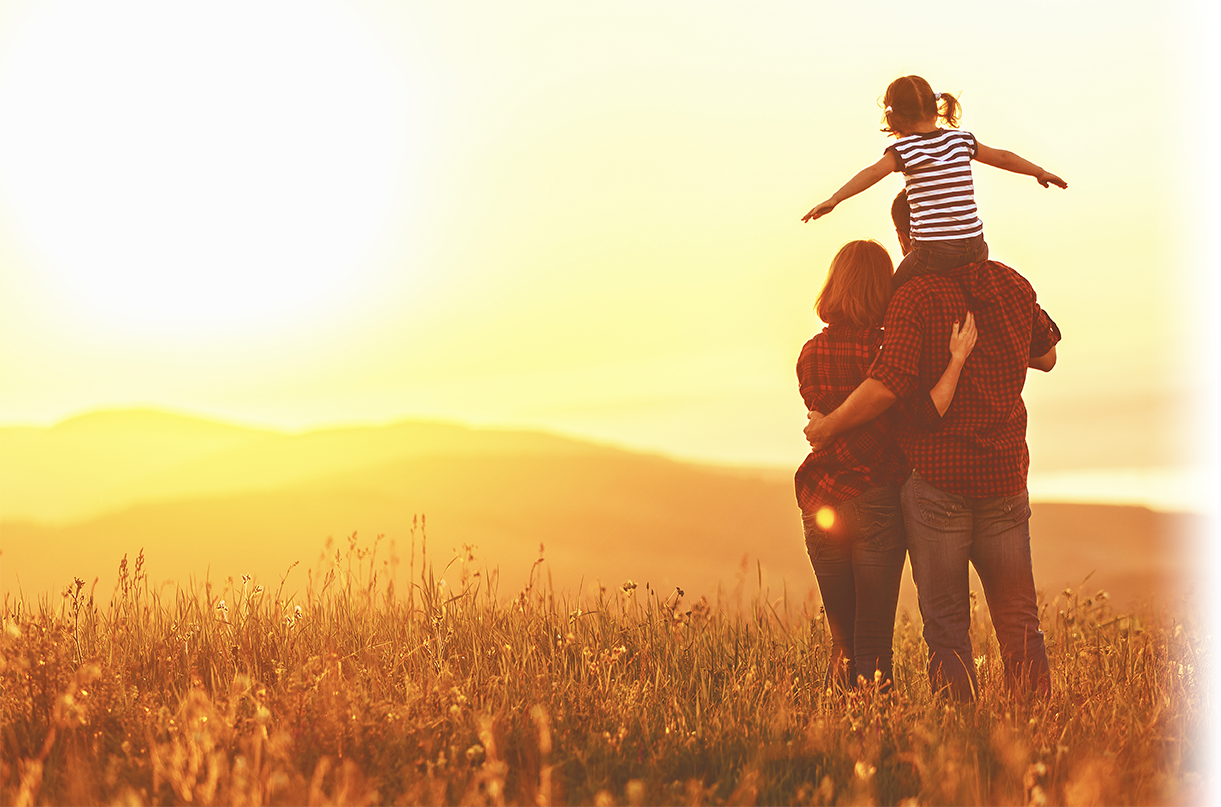
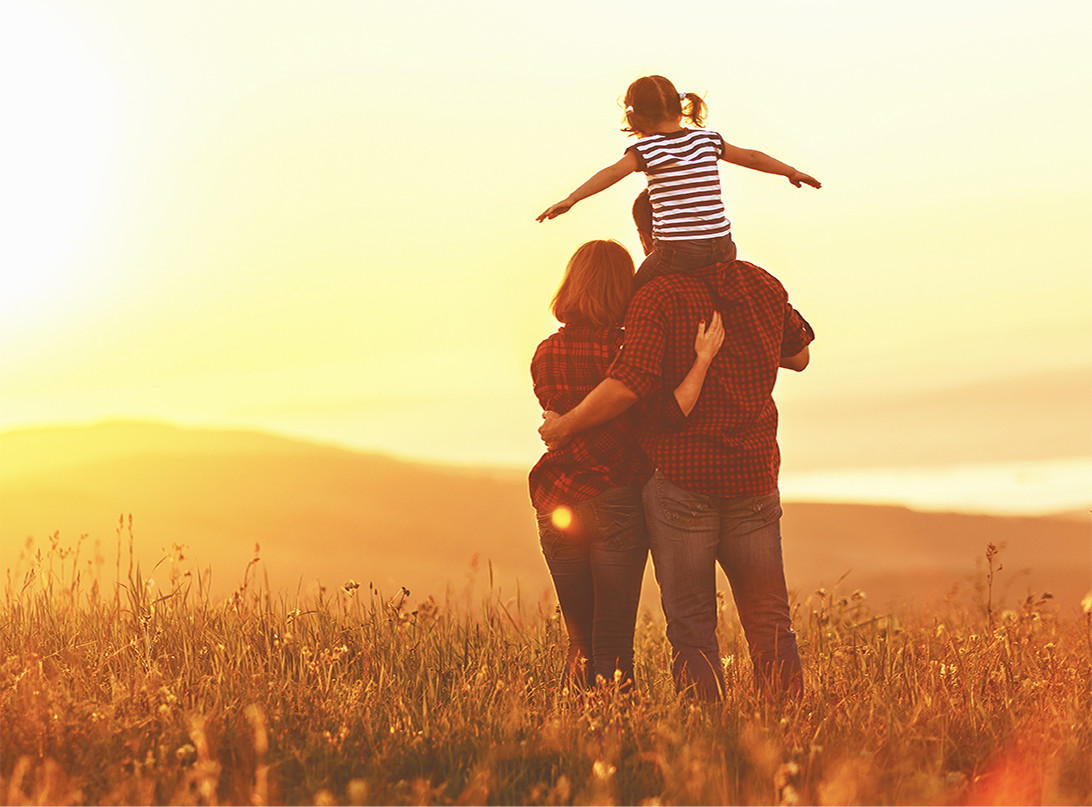
minor css improvements

diff --git a/index.html b/index.html
@@ -32,7 +32,7 @@
     <header>
       <nav>
         <img src='./assets/logo.png' alt='' height='60px'/>
-        <h2>Call us today! 1.800.555.5555</h2>
+        <h2 class='nav-call'><a href='tel:800-555-5555'>Call us today! 1.800.555.5555</a></h2>
       </nav>
     </header>
     <main>
@@ -56,7 +56,7 @@
           <input type="text" id="loan" name="loan" placeholder="LOAN AMOUNT $">
           <input type="submit" value="Get Started">
         </form>
-        <!-- <img src='./assets/trusted.png' alt='' height='10px'/> -->
+        <img src='./assets/trusted.png' alt='' height='60px'/>
       </div>
     </main>
     <footer>
@@ -66,16 +66,16 @@
           <h4>1st Franklin Financial Corporation</h4>
           <p>
             <h4>Corporate Headquaters</h4>
-            135 E. Tugalo Street<br />P.O. Box 880<br />Toccoa, GA 30577<br />(706)886-7571
+            135 E. Tugalo Street<br />P.O. Box 880<br />Toccoa, GA 30577<br /><a href='tel:706-886-7571' style="color: #878a8b">(706) 886-7571</a>
           </p>
           <p>
             <h4>Toll Free Numbers</h4>
-            Investment Center<br />(706)886-7571 or (800)282-0709<br />Quality Assurance<br />(800)700-7943
+            Investment Center<br /><a href='tel:706-886-7571' style="color: #878a8b">(706) 886-7571</a> or <a href='tel:800-282-0709' style="color: #878a8b">(800) 282-0709</a><br />Quality Assurance<br /><a href='tel:800-700-7943' style="color: #878a8b">(800) 700-7943</a>
           </p>
           <p>
             Copyright 2012-2017 1st Franklin Financial<br />All Rights Reserved.
           </p>
-          <p>
+          <p class='col-1-links'>
             <a href='#'>Privacy Policy</a><br />
             <a href='#'>Online Privacy Policy</a><br />
             <a href='#'>Sitemap</a><br />
@@ -119,7 +119,7 @@
             <h2>Retail Sales Financing<br />------</h2>
           </p>
           <p class='social-media'>
-            <a href='#'><img src='./assets/facebook-icon.png' alt='' /></a>
+            <a href='#'><img src='./assets/facebook-icon.png' alt=''/></a>
             <a href='#'><img src='./assets/youtube-icon.png' alt=''/></a>
             <a href='#'><img src='./assets/instagram-icon.png' alt=''/></a>
             <a href='#'><img src='./assets/twitter-icon.png' alt=''/></a>

diff --git a/css/main.css b/css/main.css
@@ -25,6 +25,11 @@ nav > h2 {
   font-weight: 600;
 }
 
+.nav-call > a {
+  color: black;
+  font-weight: 600;
+}
+
 /* CONTENT MAIN PORTION */
 
 main {
@@ -33,16 +38,16 @@ main {
   color: #434243;
   margin: 0px 250px 0px 250px;
   border-radius: 150px;
-  box-shadow: 250px 0 100px 50px white inset;
+  box-shadow: 250px 25px 50px 0 white inset, -200px -200px 100px 0 white inset;
   height: inherit;
   background-size: cover;
   background-image: url('../assets/background.png');
   background-repeat: no-repeat;
-  background-position: -350px -20px;
+  background-position: -90px -50px;
 }
 
 .left-content{
-  padding: 70px 10px 50px 10px;
+  padding: 60px 10px 50px 10px;
   margin-right: 30%;
 }
 
@@ -66,7 +71,7 @@ main {
 
 .description {
   padding-top: 70px;
-  margin-right: 40%;
+  margin-right: 20%;
   line-height: 18px;
 }
 
@@ -76,16 +81,16 @@ main {
 }
 
 .right-content {
-  background-color: #3f3d39;
-  height: 312px;
-  width: 1000px;
-  color: white;
-  text-transform: uppercase;
-  margin: 20px 20px 0px 0px;
-  border-radius: 5px;
+  padding: 30px 15px 50px 10px;
+  width: 110%;
+  position: relative;
 }
 
 form {
+  background-color: #3f3d39;
+  color: white;
+  text-transform: uppercase;
+  border-radius: 5px;
   padding: 15px;
   text-align: center;
 }
@@ -122,6 +127,13 @@ input[type=submit] {
   width: 150px;
 }
 
+.right-content > img {
+  position: absolute;
+  right: 0;
+  bottom: 0;
+  margin-bottom: 40px;
+}
+
 /* FOOTER */
 
 footer {
@@ -140,7 +152,7 @@ footer {
 a {
   text-decoration: none;
   color: #898c8b;
-  font-weight: 600;
+  font-weight: 400;
 }
 
 .col-1 {
@@ -159,6 +171,10 @@ a {
   padding: 0px 0px 10px 20px;
 }
 
+.col-1-links > a {
+  font-weight: 600;
+}
+
 .col-2 > h2, .col-3 > h2 {
   color: #f6b93c;
   font-weight: 600;
@@ -170,6 +186,7 @@ a {
 
 .col-2 > a, .col-3 > a {
   color: #6f6d63;
+  line-height: 28px;
 }
 
 .social-media {
